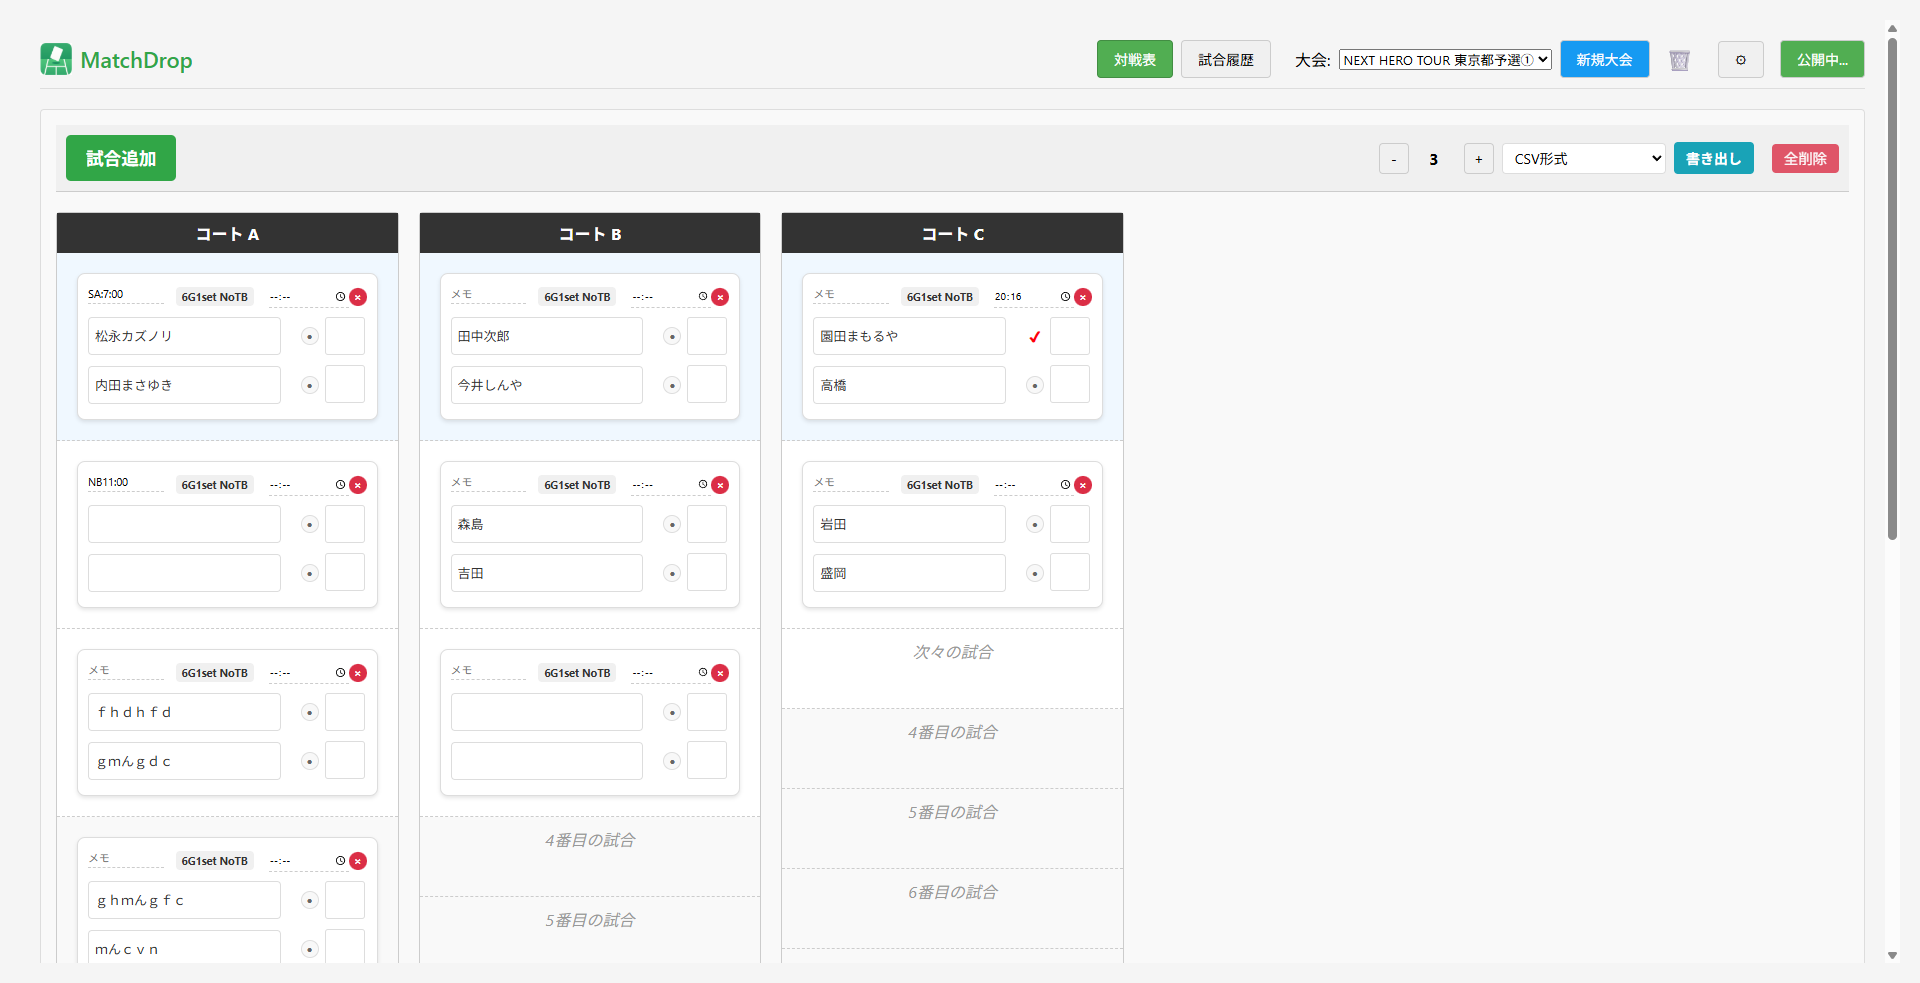
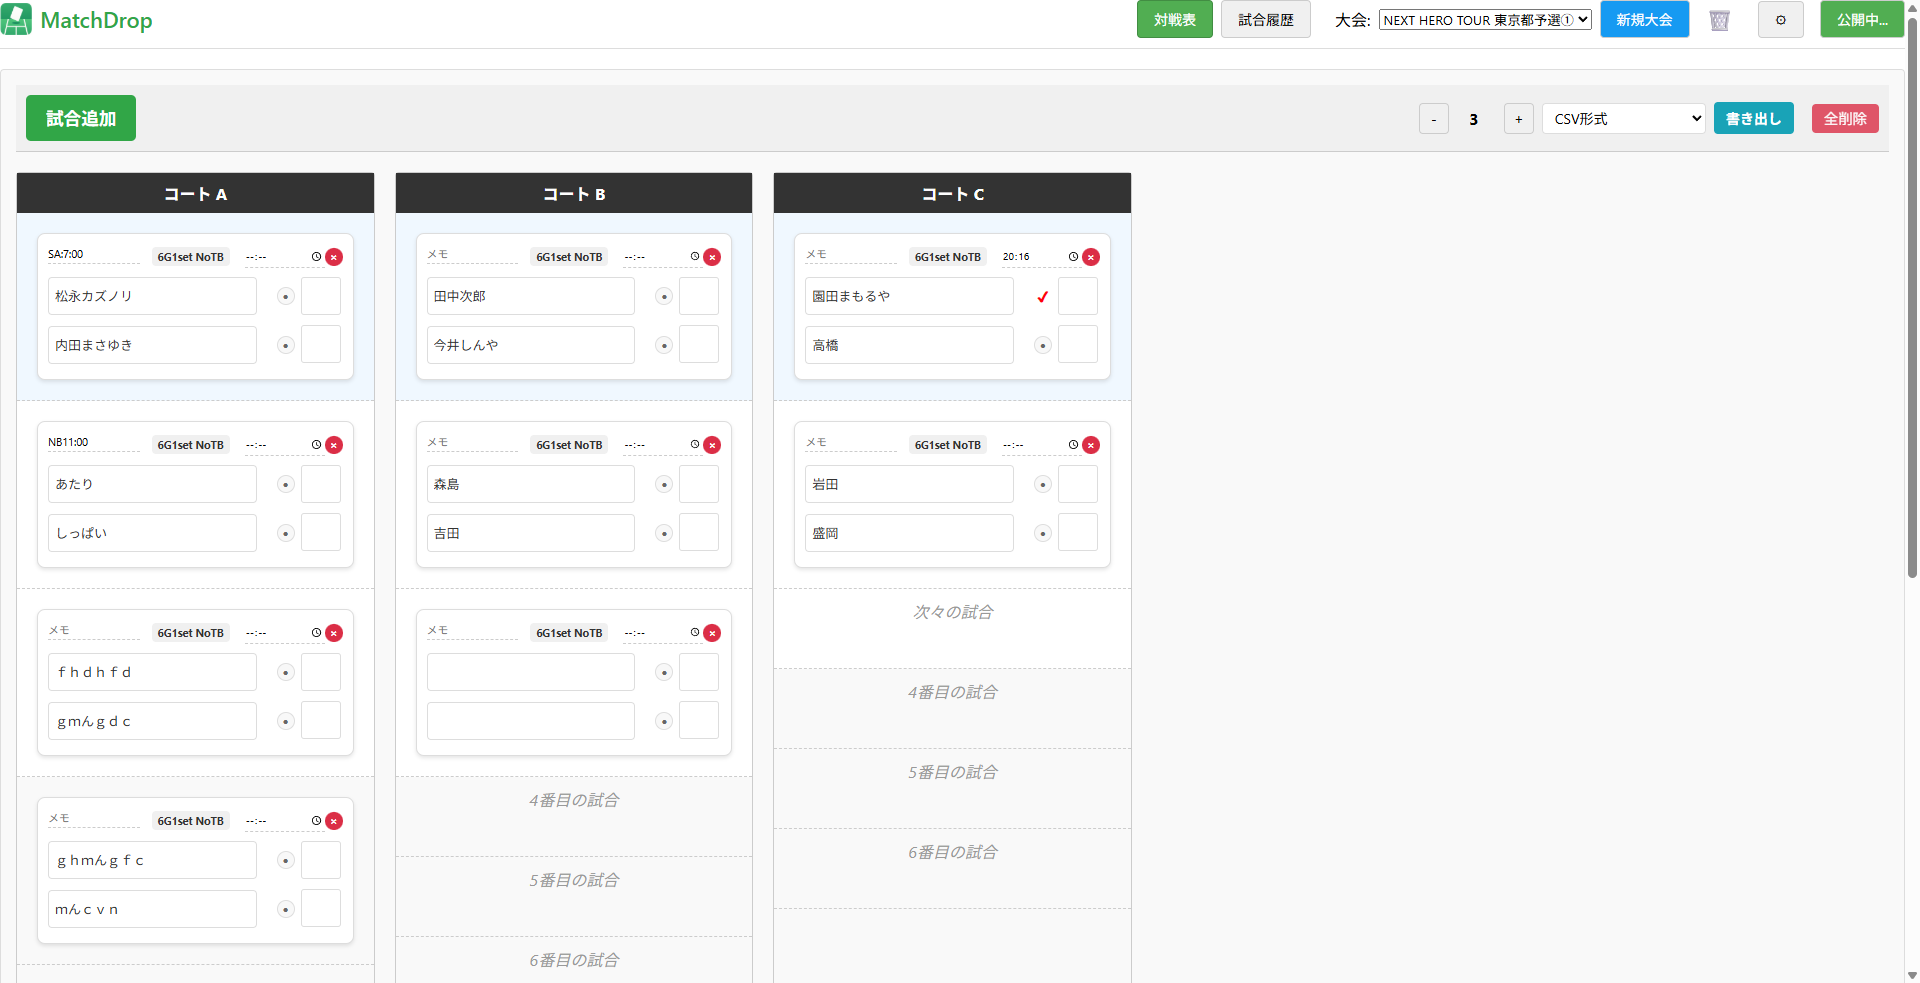
auto: deploy static site 2025-07-23T04:24:07.159Z

diff --git a/dist-web/src/css/styles.css b/dist-web/src/css/styles.css
@@ -9,9 +9,6 @@
 html, body {
   height: 100%;
   overflow-y: auto !important;
-  overflow-x: hidden;
-  background-color: #f5f5f5;
-  padding: 20px;
 }
 
 header {
@@ -95,6 +92,9 @@ button.active {
 }
 
 /* 親コンテナにも高さ制限とスクロールを追加（必要に応じて） */
+.main-board-area {
+  height: 100%;
+}
 .board-container {
   height: 80vh;
   overflow-y: auto;

diff --git a/src/css/styles.css b/src/css/styles.css
@@ -9,9 +9,6 @@
 html, body {
   height: 100%;
   overflow-y: auto !important;
-  overflow-x: hidden;
-  background-color: #f5f5f5;
-  padding: 20px;
 }
 
 header {
@@ -95,6 +92,9 @@ button.active {
 }
 
 /* 親コンテナにも高さ制限とスクロールを追加（必要に応じて） */
+.main-board-area {
+  height: 100%;
+}
 .board-container {
   height: 80vh;
   overflow-y: auto;
